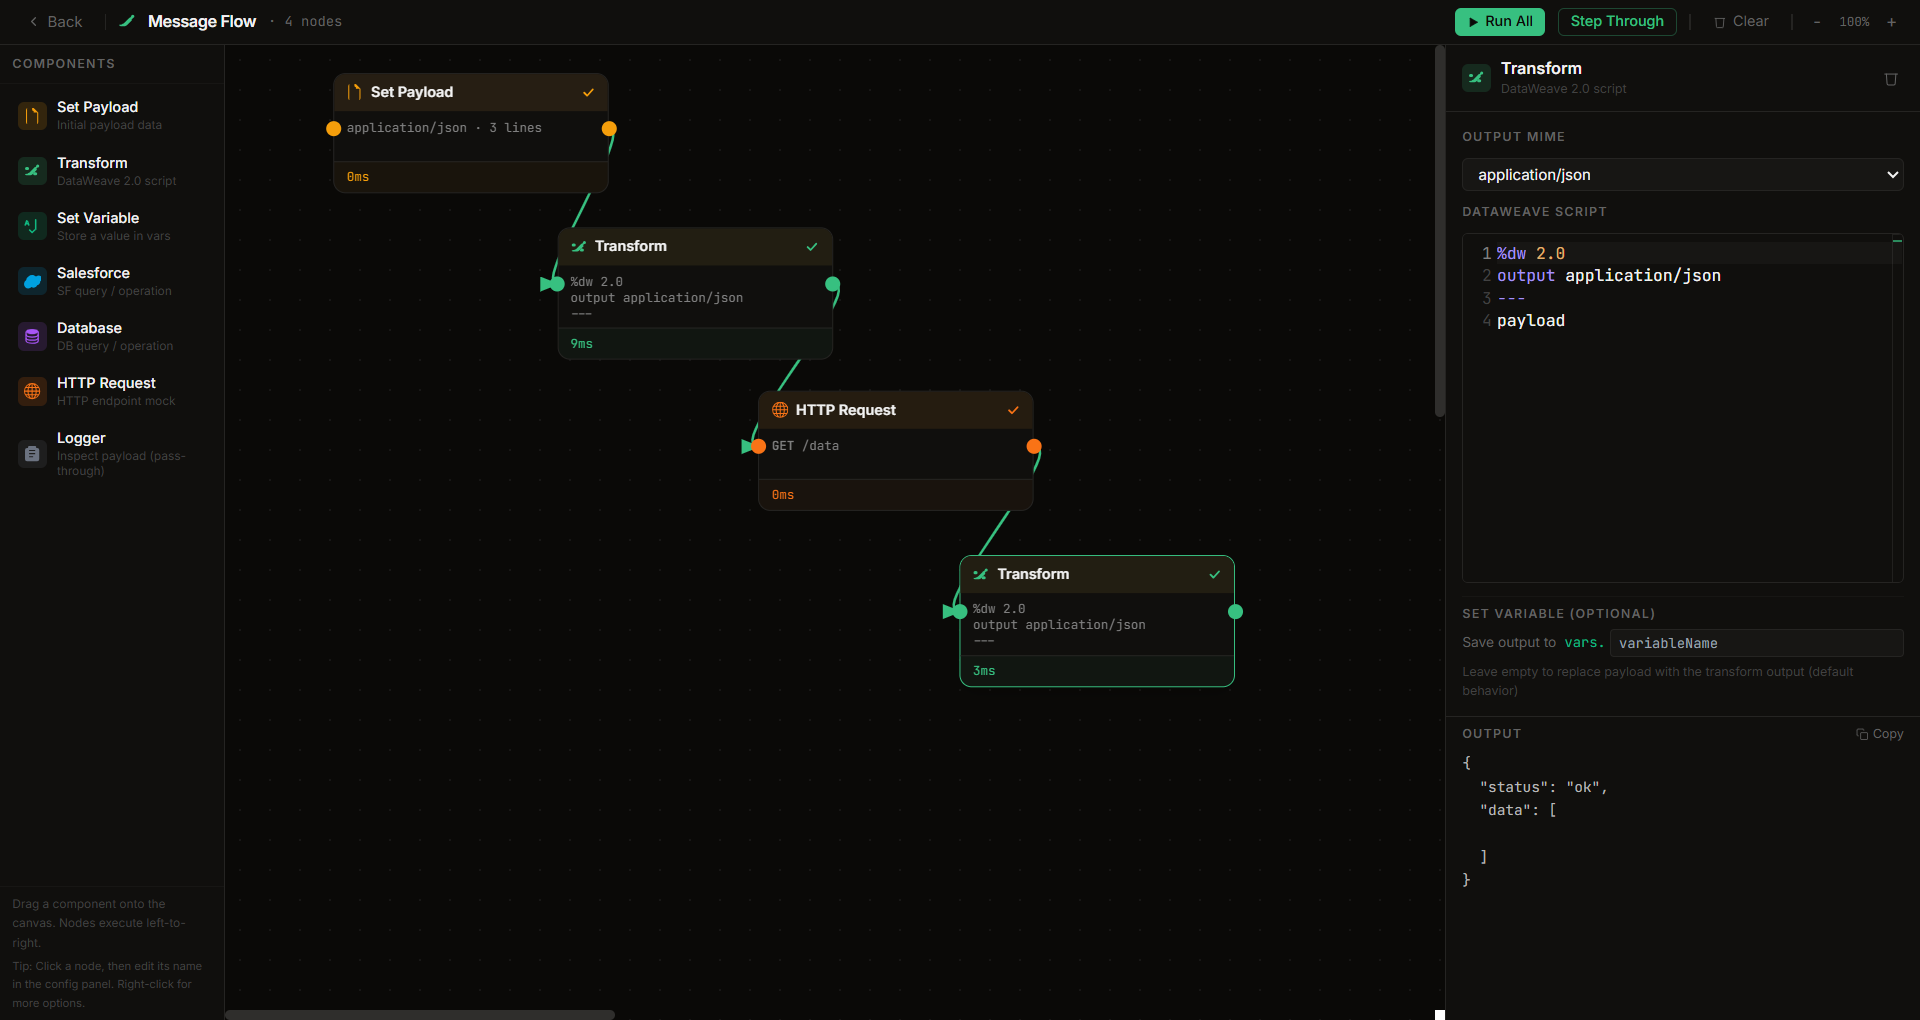
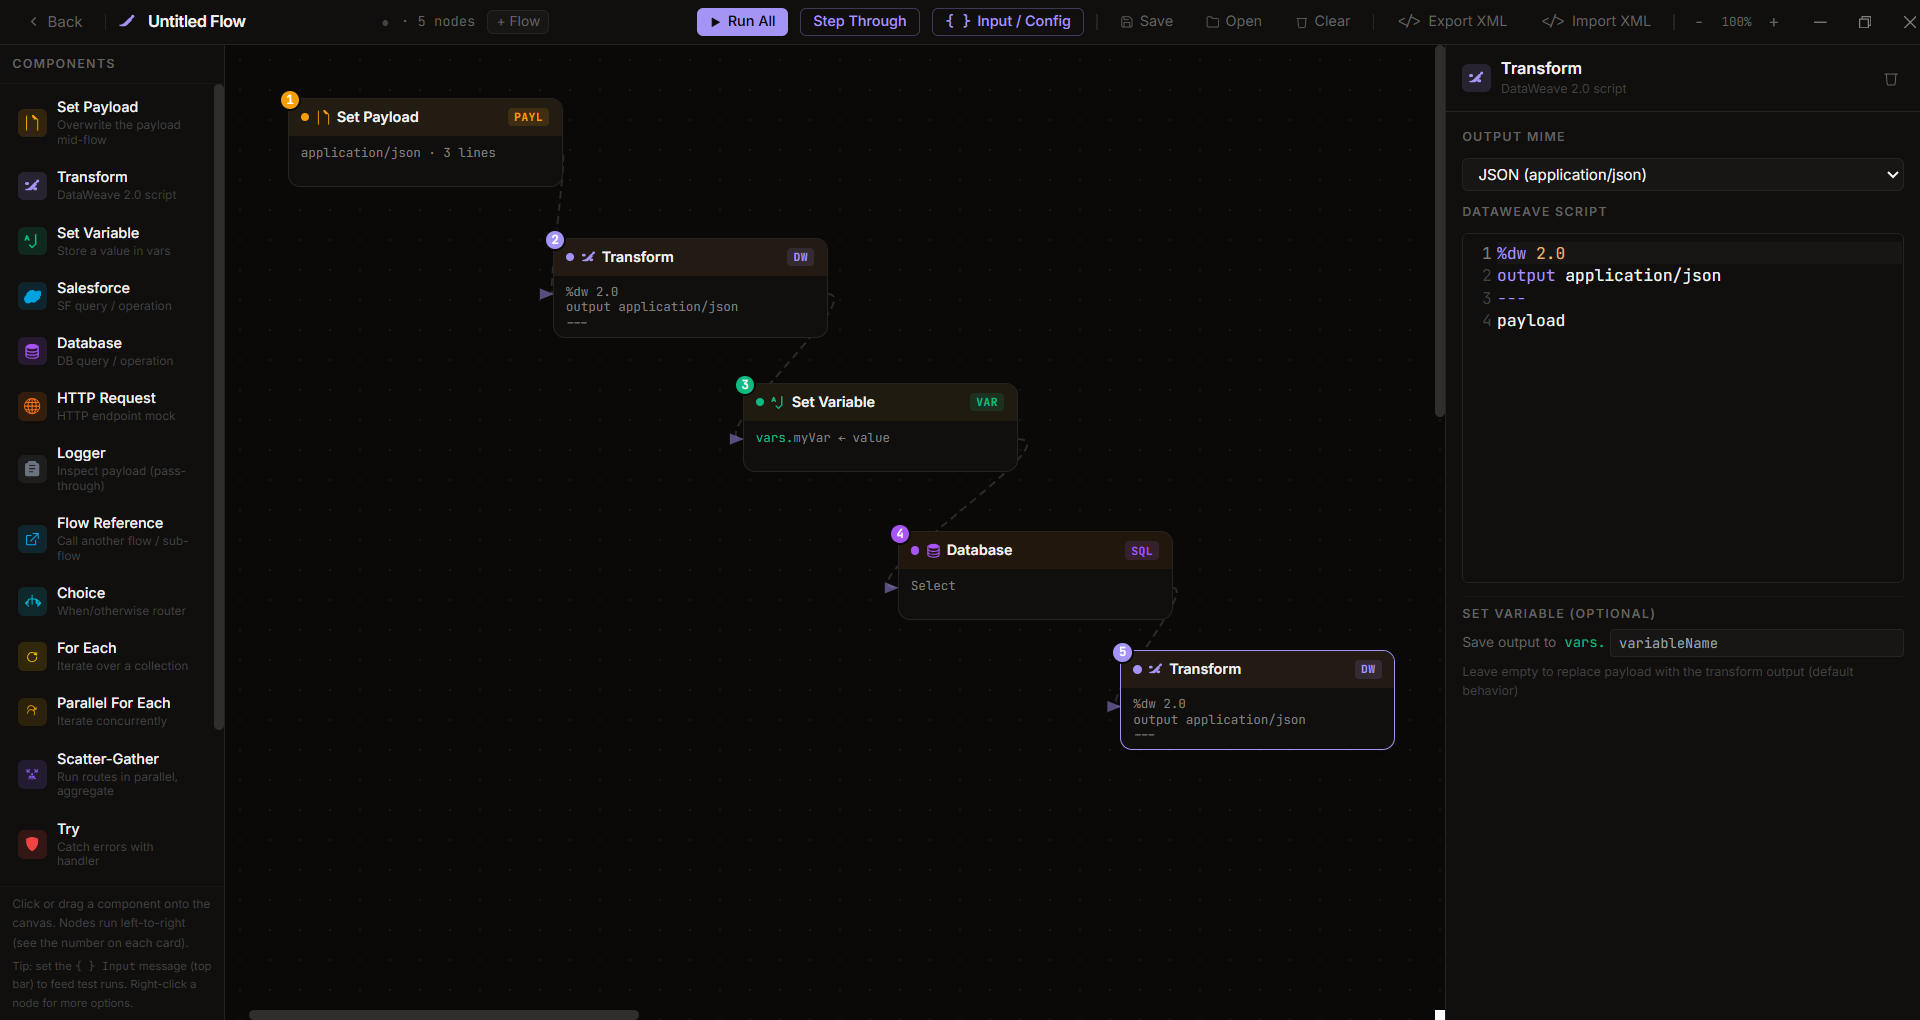
Refresh screenshots and add the Workbench, share-link and VS Code shots

diff --git a/README.md b/README.md
@@ -17,6 +17,9 @@ Built with Tauri v2 (Rust) + React + TypeScript + Monaco Editor. Ships with a bu
 ![Welcome screen — start transforming](docs/screenshots/idle_page_start_transforming_dark_mode.png)
 *Welcome screen — blank transform, open workspace, import cURL, snippets, message flow — all one click away*
 
+![Workbench — payload, script and output](docs/screenshots/script_page_dark_mode.png)
+*Workbench — payload and context on the left, script in the middle, live output on the right, with every request in the workspace one click away*
+
 ![Script editor with 309-function autocomplete](docs/screenshots/auto_suggestion_on_typing_monaco_dark_mode.png)
 *Monaco editor with DataWeave syntax highlighting, 309-function autocomplete with signature hints, and live output*
 
@@ -32,6 +35,9 @@ Built with Tauri v2 (Rust) + React + TypeScript + Monaco Editor. Ships with a bu
 ![cURL importer](docs/screenshots/import_curl_dark_mode.png)
 *cURL importer — paste any cURL command, auto-fills payload and headers, generates a matching DW transform*
 
+![Import from a share link](docs/screenshots/import_link_dark_mode.png)
+*Share links — paste a link and the whole setup comes back: script, payload, vars and headers. The data rides in the part of the URL browsers never send, so nothing is uploaded to create one*
+
 ![Snippets sidebar](docs/screenshots/snippets_dark_mode.png)
 *Snippets — reusable DW templates for common patterns like map, filter, group-by, reduce*
 
@@ -43,6 +49,9 @@ Built with Tauri v2 (Rust) + React + TypeScript + Monaco Editor. Ships with a bu
 
 ![Settings — appearance customization](docs/screenshots/settings_dark_mode.png)
 *Settings — Dusk/Paper themes, 5 accent colors, Workbench and Playground layouts*
+
+![DataWeave Studio in VS Code](docs/screenshots/vscode_extension.png)
+*The same app inside VS Code — bundled Java runtime, no Maven, no Anypoint Studio*
 
 ---
 
